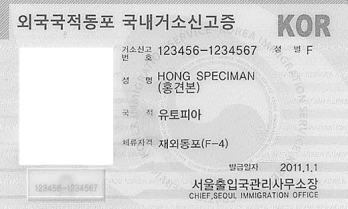
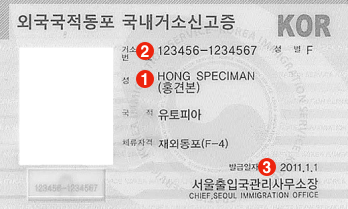
add rezervOkPage

Changed region(s): [[0.7184, 0.7464, 0.8046, 0.8612], [0.3736, 0.201, 0.4598, 0.2871], [0.3736, 0.3158, 0.4598, 0.4306]]

diff --git a/src/Pages/AboutPage.js b/src/Pages/AboutPage.js
@@ -3,15 +3,14 @@ import React from 'react'
 const AboutPage = () => {
   return (
     <div>
-        <div className="title-container">
-          <h1 className="h1-title">Excepteur eiusmod consequat commodo.</h1>
-        </div>
-        <div className="text-container">
-          <p className="text-text">
-            Nostrud consectetur excepteur cillum consequat mollit sunt occaecat tempor sit excepteur adipisicing amet. Aliqua in non eiusmod irure minim irure tempor aliqua anim qui nostrud. Dolore ipsum irure labore labore labore ullamco anim Lorem consequat reprehenderit. Adipisicing cupidatat reprehenderit laboris occaecat. Irure adipisicing tempor irure magna.Nostrud consectetur excepteur cillum consequat mollit sunt occaecat tempor sit excepteur adipisicing amet. Aliqua in non eiusmod irure minim irure tempor aliqua anim qui nostrud. Dolore ipsum irure labore labore labore ullamco anim Lorem consequat reprehenderit. Adipisicing cupidatat reprehenderit laboris occaecat. Irure adipisicing tempor irure magna.Nostrud consectetur excepteur cillum consequat mollit sunt occaecat tempor sit excepteur adipisicing amet. Aliqua in non eiusmod irure minim irure tempor aliqua anim qui nostrud. Dolore ipsum irure labore labore labore ullamco anim Lorem consequat reprehenderit. Adipisicing cupidatat reprehenderit laboris occaecat. Irure adipisicing tempor irure magna.Nostrud consectetur excepteur cillum consequat mollit sunt occaecat tempor sit excepteur adipisicing amet. Aliqua in non eiusmod irure minim irure tempor aliqua anim qui nostrud. Dolore ipsum irure labore labore labore ullamco anim Lorem consequat reprehenderit. Adipisicing cupidatat reprehenderit laboris occaecat. Irure adipisicing tempor irure magna. Nostrud consectetur excepteur cillum consequat mollit sunt occaecat tempor sit excepteur adipisicing amet. Aliqua in non eiusmod irure minim irure tempor aliqua anim qui nostrud. Dolore ipsum irure labore labore labore ullamco anim Lorem consequat reprehenderit. Adipisicing cupidatat reprehenderit laboris occaecat. Irure adipisicing tempor irure magna.Nostrud consectetur excepteur cillum consequat mollit sunt occaecat tempor sit excepteur adipisicing amet. Aliqua in non eiusmod irure minim irure tempor aliqua anim qui nostrud. Dolore ipsum irure labore labore labore ullamco anim Lorem consequat reprehenderit. Adipisicing cupidatat reprehenderit laboris occaecat. Irure adipisicing tempor irure magna.Nostrud consectetur excepteur cillum consequat mollit sunt occaecat tempor sit excepteur adipisicing amet. Aliqua in non eiusmod irure minim irure tempor aliqua anim qui nostrud. Dolore ipsum irure labore labore labore ullamco anim Lorem consequat reprehenderit. Adipisicing cupidatat reprehenderit laboris occaecat. Irure adipisicing tempor irure magna.Nostrud consectetur excepteur cillum consequat mollit sunt occaecat tempor sit excepteur adipisicing amet. Aliqua in non eiusmod irure minim irure tempor aliqua anim qui nostrud. Dolore ipsum irure labore labore labore ullamco anim Lorem consequat reprehenderit. Adipisicing cupidatat reprehenderit laboris occaecat. Irure adipisicing tempor irure magna.
-          </p>
-        </div>
-
+      <div className="title-container">
+        <h1 className="h1-title">Excepteur eiusmod consequat commodo.</h1>
+      </div>
+      <div className="text-container">
+        <p className="text-text">
+          Nostrud consectetur excepteur cillum consequat mollit sunt occaecat tempor sit excepteur adipisicing amet. Aliqua in non eiusmod irure minim irure tempor aliqua anim qui nostrud. Dolore ipsum irure labore labore labore ullamco anim Lorem consequat reprehenderit. Adipisicing cupidatat reprehenderit laboris occaecat. Irure adipisicing tempor irure magna.Nostrud consectetur excepteur cillum consequat mollit sunt occaecat tempor sit excepteur adipisicing amet. Aliqua in non eiusmod irure minim irure tempor aliqua anim qui nostrud. Dolore ipsum irure labore labore labore ullamco anim Lorem consequat reprehenderit. Adipisicing cupidatat reprehenderit laboris occaecat. Irure adipisicing tempor irure magna.Nostrud consectetur excepteur cillum consequat mollit sunt occaecat tempor sit excepteur adipisicing amet. Aliqua in non eiusmod irure minim irure tempor aliqua anim qui nostrud. Dolore ipsum irure labore labore labore ullamco anim Lorem consequat reprehenderit. Adipisicing cupidatat reprehenderit laboris occaecat. Irure adipisicing tempor irure magna.Nostrud consectetur excepteur cillum consequat mollit sunt occaecat tempor sit excepteur adipisicing amet. Aliqua in non eiusmod irure minim irure tempor aliqua anim qui nostrud. Dolore ipsum irure labore labore labore ullamco anim Lorem consequat reprehenderit. Adipisicing cupidatat reprehenderit laboris occaecat. Irure adipisicing tempor irure magna. Nostrud consectetur excepteur cillum consequat mollit sunt occaecat tempor sit excepteur adipisicing amet. Aliqua in non eiusmod irure minim irure tempor aliqua anim qui nostrud. Dolore ipsum irure labore labore labore ullamco anim Lorem consequat reprehenderit. Adipisicing cupidatat reprehenderit laboris occaecat. Irure adipisicing tempor irure magna.Nostrud consectetur excepteur cillum consequat mollit sunt occaecat tempor sit excepteur adipisicing amet. Aliqua in non eiusmod irure minim irure tempor aliqua anim qui nostrud. Dolore ipsum irure labore labore labore ullamco anim Lorem consequat reprehenderit. Adipisicing cupidatat reprehenderit laboris occaecat. Irure adipisicing tempor irure magna.Nostrud consectetur excepteur cillum consequat mollit sunt occaecat tempor sit excepteur adipisicing amet. Aliqua in non eiusmod irure minim irure tempor aliqua anim qui nostrud. Dolore ipsum irure labore labore labore ullamco anim Lorem consequat reprehenderit. Adipisicing cupidatat reprehenderit laboris occaecat. Irure adipisicing tempor irure magna.Nostrud consectetur excepteur cillum consequat mollit sunt occaecat tempor sit excepteur adipisicing amet. Aliqua in non eiusmod irure minim irure tempor aliqua anim qui nostrud. Dolore ipsum irure labore labore labore ullamco anim Lorem consequat reprehenderit. Adipisicing cupidatat reprehenderit laboris occaecat. Irure adipisicing tempor irure magna.
+        </p>
+      </div>
     </div>
   )
 }

diff --git a/src/Pages/RezervById.js b/src/Pages/RezervById.js
@@ -1,0 +1,73 @@
+import React from 'react'
+import { Link } from 'react-router-dom'
+
+const RezervById = () => {
+  return (
+    <div>
+        <div className="title-container">
+          <h1 className="h1-title">
+            Бронирование по ID карте
+          </h1>
+        </div>
+        <div className="text-container">
+          <p className="text-text">
+            Заполните ниже следующие поля как в ID карте
+          </p>
+        </div>
+        <div class="img_container">
+                <img src="../image/idCard_sample.png" alt="ID Card" class="idCard_img" />
+        </div>
+
+        <div class="login__form">
+                <div class="fields">
+                    <div class="login__field field">
+                        <label class="text-field__label" for="name">Ф.И.О.</label>
+                        <div class="field-position1">1</div>
+                        <input class="text-field__input" type="text" name="name" id="name" placeholder="Как Вас зовут?" />
+                    </div>
+                    <div class="id-num__field field">
+                        <label class="text-field__label" for="idNum">Номер ID карты</label>
+                        <div class="field-position2">2</div>
+                        <input class="text-field__input" type="text" name="idNum" id="idNum" placeholder="Номер ID карты" />
+                    </div>
+                    <div class="date__field field">
+                        <label class="text-field__label" for="date">Дата получения</label>
+                        <div class="field-position3">3</div>
+                        <input class="text-field__input" type="text" name="date" id="date" placeholder="Дата получения" />
+                    </div>
+                    <div class="date__field field">
+                        <label className="text-field__label" for="date_rez">Дата брони</label>
+                        <div className="field-position__Q">?</div>
+ 
+                        <div className=" date-input">
+                            <input className='date-input_field' type="text" name="date_rez" placeholder='От' />
+                            <span className='span'>~</span>
+                            <input className='date-input_field' type="text" name="date_rez" placeholder='До' />
+                            
+                        </div>
+
+                        {/* <input class="text-field__input" type="text" name="date_rez" id="date_rez" placeholder="Дата бронирования" /> */}
+                    </div>
+
+
+                </div>
+
+
+
+
+
+                
+                <div class="button_field">
+                    <div class="login__button">
+                        <Link to="/rez_ok_page">
+                          <button class="signup bf__bt">Подать заявку</button>
+                        </Link>
+                    </div>
+                </div>
+            </div>
+
+    </div>
+  )
+}
+
+export default RezervById

diff --git a/src/Pages/RezervByPassport.js b/src/Pages/RezervByPassport.js
@@ -1,0 +1,55 @@
+import React from 'react'
+import { Link } from 'react-router-dom'
+
+const RezervByPassport = () => {
+  return (
+    <div>
+        <div className="title-container">
+          <h1 className="h1-title">
+            Бронирование по ID карте
+          </h1>
+        </div>
+        <div className="text-container">
+          <p className="text-text">
+            Заполните ниже следующие поля как в ID карте
+          </p>
+        </div>
+        <div className="login__form">
+                <div className="fields">
+                    <div class="name__field field">
+                        <label className="text-field__label" for="name">Ф.И.О.</label>
+                        <input className="text-field__input" type="text" name="name" id="name" placeholder="Как Вас зовут?" />
+                    </div>
+                    <div class="passport-num__field field">
+                        <label className="text-field__label" for="passportNum">Номер Паспорта</label>
+                        <input className="text-field__input" type="text" name="passportNum" id="passportNum" placeholder="Номер Паспорта" />
+                    </div>
+                    <div class="nation__field field">
+                        <label className="text-field__label" for="nation">Гражданство</label>
+                        <input className="text-field__input" type="text" name="nation" id="nation" placeholder="Гражданство" />
+                    </div>
+                    <div className="date__field field">
+                        <label className="text-field__label" for="date">Дата рождения</label>
+                        <input className="text-field__input" type="text" name="date" id="date" placeholder="Дата рождения" />
+                    </div>
+                    <div className="inKorea__field field">
+                        <label className="text-field__label" for="inKorea">Город в Корее</label>
+                        <input className="text-field__input" type="text" name="inKorea" id="inKorea" placeholder="Город в Корее" />
+                    </div>
+
+
+                </div>
+
+                <div className="button_field">
+                    <div className="login__button">
+                        <Link to="/rez_ok_page">
+                          <button class="signup bf__bt">Подать заявку</button>
+                        </Link>
+                    </div>
+                </div>
+            </div>
+    </div>
+  )
+}
+
+export default RezervByPassport

diff --git a/src/index.css b/src/index.css
@@ -105,9 +105,9 @@ legend {
     text-align: center;
 }
 
-.text-text {
+/* .text-text {
 
-}
+} */
 
 /* ! Text block end */
 
@@ -148,7 +148,7 @@ legend {
 /* ?Login form */
 
 .login__form {
-    width: 28%;
+    width: 23%;
     margin: 0 auto;
     background-color: #f5f2f2;
     padding: 20px;
@@ -163,11 +163,14 @@ legend {
     display: flex;
     justify-content: space-between;
     align-items: center;
+    position: relative;
+    margin-bottom: 13px;
 }
+
 
 .login__field {
     margin-bottom: 13px;
-}
+}    
 
 .text-field__input {
     border: 1px solid #bdb8b8;
@@ -197,3 +200,115 @@ legend {
 }
 
 /* ! Login Page */
+
+
+
+
+/* !RezervById Page */
+
+.img_container {
+    text-align: center;
+    position: relative;
+    margin-bottom: 30px;
+}
+
+/* ?Красные цифры на форме */
+
+.field-position1 {
+    text-align: center;
+    width: 20px;
+    height: 20px;
+    background-color: red;
+    position: absolute;
+    border-radius: 50%;
+    top: 5px;
+    right: 221px;
+    color: #fff;
+    font-weight: bold;
+}
+
+.field-position2 {
+    text-align: center;
+    width: 20px;
+    height: 20px;
+    background-color: red;
+    position: absolute;
+    border-radius: 50%;
+    top: 5px;
+    right: 221px;
+    color: #fff;
+    font-weight: bold;
+}
+
+.field-position3 {
+    text-align: center;
+    width: 20px;
+    height: 20px;
+    background-color: red;
+    position: absolute;
+    border-radius: 50%;
+    top: 5px;
+    right: 221px;
+    color: #fff;
+    font-weight: bold;
+}
+
+.field-position__Q {
+    text-align: center;
+    width: 20px;
+    height: 20px;
+    background-color: rgb(136, 133, 133);
+    position: absolute;
+    border-radius: 50%;
+    top: 5px;
+    right: 221px;
+    color: #fff;
+    cursor: pointer;
+}
+
+/* ?Красные цифры на форме */
+
+.date-input {
+    display: flex;
+    justify-content: space-between;
+    width: 60.7%;
+    align-items: center;
+
+}
+
+.date-input_field {
+    background-color: #fff;
+    width: 45%;
+    border: 1px solid #bdb8b8;
+    border-radius: 3px;
+    padding: 5px 10px 5px 10px;
+    background-color: #fff;
+}
+
+
+/* !RezervById Page */
+
+
+/* ! Rezerv OK Page */
+
+.back_to_home {
+    display: flex;
+    align-items: center;
+    justify-content: center;
+    margin-top: 100px;
+}
+
+.back-btn {
+    padding: 5px 15px;
+    background-color: #9b9898;
+    border-radius: 10px;
+    transition-property: all;
+    transition-duration: .3s;
+}
+
+.back-btn:hover {
+    background-color: #bdb8b8;
+    color: #eeebeb;
+}
+
+/* ! Rezerv OK Page */

diff --git a/src/App.js b/src/App.js
@@ -1,11 +1,14 @@
 import Header from "./Components/Header/Header"
 
 import HomePage from "./Pages/HomePage";
-import AboutPage from './Pages/AboutPage'
-import ContactsPage from "./Pages/ContactsPage"
+import AboutPage from './Pages/AboutPage';
+import ContactsPage from "./Pages/ContactsPage";
 import LoginPage from './Pages/LoginPage';
-import RegistrPage from './Pages/RegistrPage'
-import RezervType from './Pages/RezervType'
+import RegistrPage from './Pages/RegistrPage';
+import RezervType from './Pages/RezervType';
+import RezervById from './Pages/RezervById';
+import RezervByPassport from './Pages/RezervByPassport';
+import RezervOkPage from "./Pages/RezervOkPage";
 
 
 import { Routes, Route } from 'react-router-dom'
@@ -25,6 +28,9 @@ function App() {
           <Route path="/reg" element={<RegistrPage />}/>
 
           <Route path="/rez_type" element={<RezervType />} />
+          <Route path="/rez_by_id" element={<RezervById />} />
+          <Route path="/rez_by_passport" element={<RezervByPassport />} />
+          <Route path="/rez_ok_page" element={<RezervOkPage />} />
 
         </Routes>
       </div>

diff --git a/src/Pages/RezervOkPage.js b/src/Pages/RezervOkPage.js
@@ -1,0 +1,24 @@
+import React from 'react'
+import { Link } from 'react-router-dom'
+
+const RezervOkPage = () => {
+  return (
+    <div>
+        <div className="title-container">
+          <h1 className="h1-title">
+            Всем спасибо! Кина не будет!!!
+          </h1>
+        </div>
+        <div className="text-container">
+          <p className="text-text">
+            Et amet ullamco incididunt dolor veniam pariatur officia commodo pariatur laborum reprehenderit officia. Officia laborum id duis consectetur fugiat dolor. Tempor sunt culpa laborum minim pariatur sunt labore aliquip nostrud aute sit ut ullamco occaecat. Elit voluptate elit qui aliqua veniam anim veniam id officia deserunt laborum ad. Ipsum id irure occaecat duis. Et consequat incididunt occaecat incididunt laborum elit anim. Sit occaecat labore excepteur ipsum occaecat.
+          </p>
+        </div>
+        <div className="back_to_home">
+            <Link to="/" className='back-btn'>На главную</Link>
+        </div>
+    </div>
+  )
+}
+
+export default RezervOkPage

diff --git a/src/Pages/RegistrPage.js b/src/Pages/RegistrPage.js
@@ -20,7 +20,7 @@ const RegistrPage = () => {
                 </div>
                 <div className="password__field field">
                     <label className="text-field__label" for="password">Пароль</label>
-                    <input className="text-field__input" type="text" name="password" id="password" placeholder="Password" />
+                    <input className="text-field__input" type="password" name="password" id="password" placeholder="Password" />
                 </div>
             </div>
             <div className="button_field">

diff --git a/src/Pages/LoginPage.js b/src/Pages/LoginPage.js
@@ -17,7 +17,7 @@ const LoginPage = () => {
                 </div>
                 <div className="password__field field">
                     <label className="text-field__label" for="passworf">Пароль</label>
-                    <input className="text-field__input" type="text" name="password" id="login" placeholder="Password" />
+                    <input className="text-field__input" type="password" name="password" id="login" placeholder="Password" />
                 </div>
             </div>
             <div className="button_field">

diff --git a/src/Components/Header/Header.js b/src/Components/Header/Header.js
@@ -9,7 +9,7 @@ const Header = () => {
       <div className={style.header}>
             <div className={style.header_top}>
                 <div className={style.logo}>
-                  <a href="/" className="logo-link"><img src="../../../image/globus.png" alt="LOGO" /></a>
+                  <Link to="/" className="logo-link"><img src="../../../image/globus.png" alt="LOGO" /></Link>
                 </div>
             </div>
             <nav className={style.nav}>

diff --git a/src/Pages/RezervType.js b/src/Pages/RezervType.js
@@ -15,7 +15,7 @@ const RezervType = () => {
           Test
         </h3>
       </div>
-      <Button img1="../../image/idCard.png" img2="../../image/password.png" title1="ID Card" title2="Passport" path1="/" />
+      <Button img1="../../image/idCard.png" img2="../../image/password.png" title1="ID Card" title2="Passport" path1="/rez_by_id" path2="/rez_by_passport" />
     </div>
   )
 }
